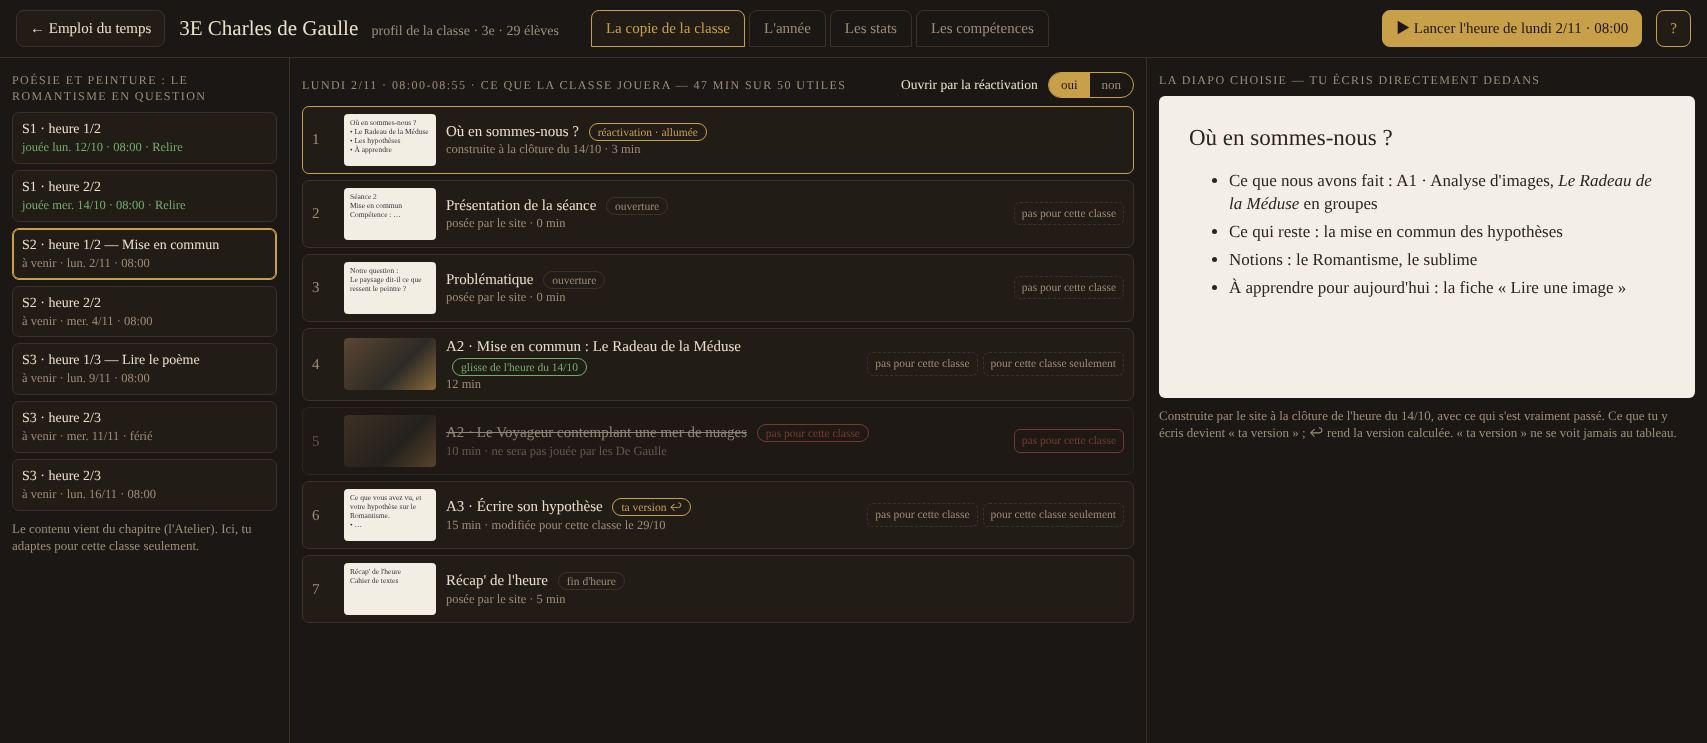
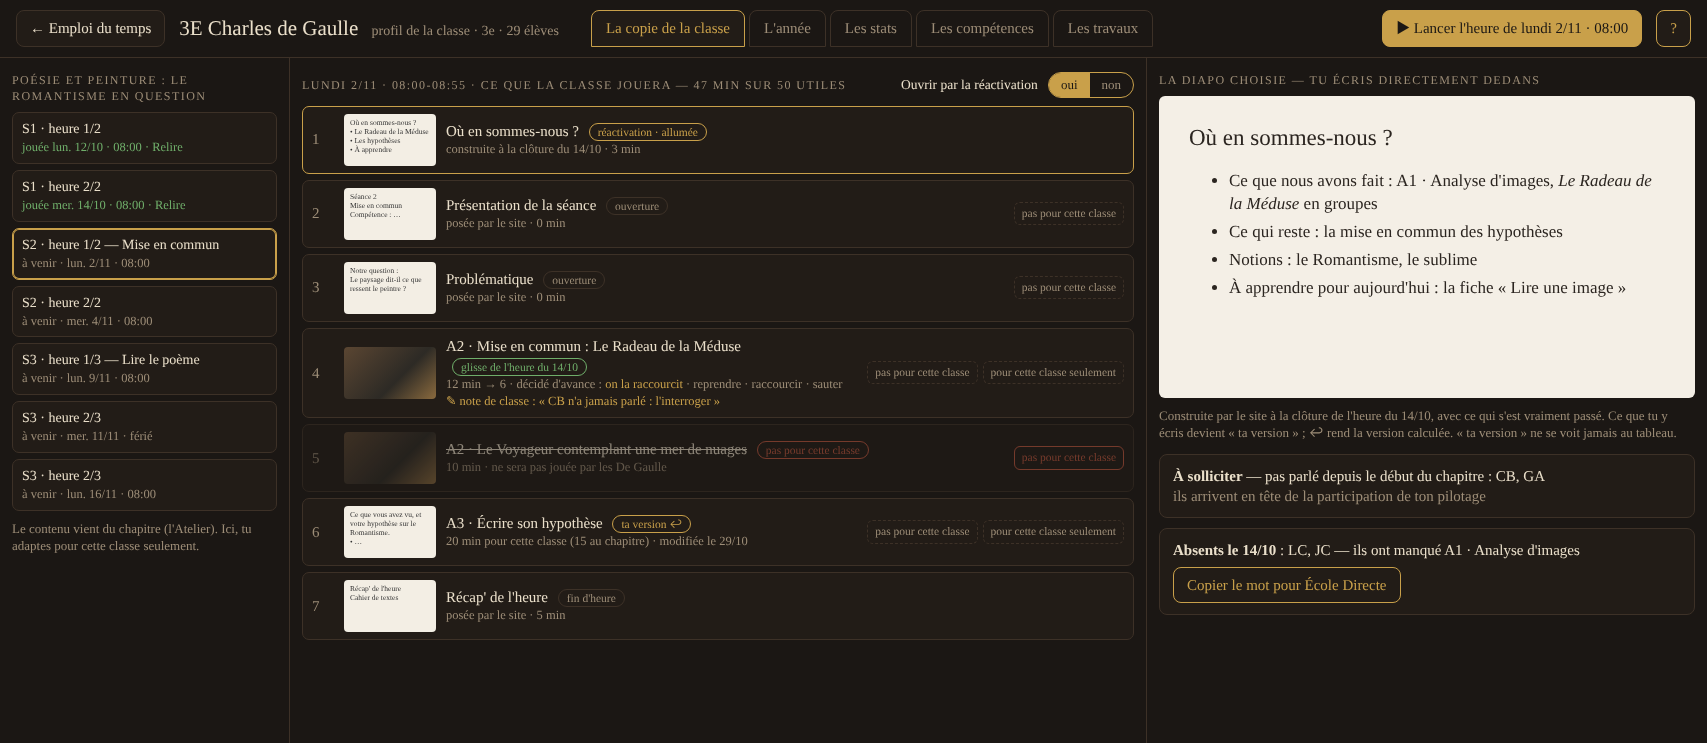
C13 tour 346 : les applis mesurées ; captures du profil enrichies (971-977, Les travaux)
Claude-Session: https://claude.ai/code/session_01FmzsMHBMC1WuguNe8MTJi3

diff --git a/MANDATS/PROFIL-CLASSE/captures-29-10/profil-classe.html b/MANDATS/PROFIL-CLASSE/captures-29-10/profil-classe.html
@@ -44,7 +44,7 @@ table{border-collapse:collapse;width:100%;font-size:14px}td,th{border-bottom:1px
 <div class="haut">
   <button class="btn">← Emploi du temps</button>
   <h1>3E Charles de Gaulle <small>profil de la classe · 3e · 29 élèves</small></h1>
-  <div class="ong" id="ong"><span data-v="1">La copie de la classe</span><span data-v="3">L'année</span><span data-v="4">Les stats</span><span data-v="5">Les compétences</span></div>
+  <div class="ong" id="ong"><span data-v="1">La copie de la classe</span><span data-v="3">L'année</span><span data-v="4">Les stats</span><span data-v="5">Les compétences</span><span data-v="6">Les travaux</span></div>
   <div class="esp"></div>
   <button class="btn plein">▶ Lancer l'heure de lundi 2/11 · 08:00</button><button class="btn or">?</button>
 </div>
@@ -68,9 +68,9 @@ table{border-collapse:collapse;width:100%;font-size:14px}td,th{border-bottom:1px
     <div class="dia sel" id="dreact"><span class="n">1</span><div class="vg">Où en sommes-nous ?<br>• Le Radeau de la Méduse<br>• Les hypothèses<br>• À apprendre</div><div class="tx"><b>Où en sommes-nous ?</b> <span class="tag or" id="treact">réactivation · allumée</span><i>construite à la clôture du 14/10 · 3 min</i></div></div>
     <div class="dia"><span class="n">2</span><div class="vg">Séance 2<br>Mise en commun<br>Compétence : …</div><div class="tx"><b>Présentation de la séance</b> <span class="tag">ouverture</span><i>posée par le site · 0 min</i></div><div class="badges"><span>pas pour cette classe</span></div></div>
     <div class="dia"><span class="n">3</span><div class="vg">Notre question :<br>Le paysage dit-il ce que ressent le peintre ?</div><div class="tx"><b>Problématique</b> <span class="tag">ouverture</span><i>posée par le site · 0 min</i></div><div class="badges"><span>pas pour cette classe</span></div></div>
-    <div class="dia"><span class="n">4</span><div class="vg img"></div><div class="tx"><b>A2 · Mise en commun : Le Radeau de la Méduse</b> <span class="tag vert">glisse de l'heure du 14/10</span><i>12 min</i></div><div class="badges"><span>pas pour cette classe</span><span>pour cette classe seulement</span></div></div>
+    <div class="dia"><span class="n">4</span><div class="vg img"></div><div class="tx"><b>A2 · Mise en commun : Le Radeau de la Méduse</b> <span class="tag vert">glisse de l'heure du 14/10</span><i>12 min → 6 · décidé d'avance : <b style="color:var(--or);font-weight:normal">on la raccourcit</b> · reprendre · raccourcir · sauter</i><i style="color:var(--or)">✎ note de classe : « CB n'a jamais parlé : l'interroger »</i></div><div class="badges"><span>pas pour cette classe</span><span>pour cette classe seulement</span></div></div>
     <div class="dia pas"><span class="n">5</span><div class="vg img"></div><div class="tx"><b>A2 · Le Voyageur contemplant une mer de nuages</b> <span class="tag rouge">pas pour cette classe</span><i>10 min · ne sera pas jouée par les De Gaulle</i></div><div class="badges"><span class="on">pas pour cette classe</span></div></div>
-    <div class="dia"><span class="n">6</span><div class="vg">Ce que vous avez vu, et votre hypothèse sur le Romantisme.<br>• …</div><div class="tx"><b>A3 · Écrire son hypothèse</b> <span class="tag or">ta version ↩</span><i>15 min · modifiée pour cette classe le 29/10</i></div><div class="badges"><span>pas pour cette classe</span><span>pour cette classe seulement</span></div></div>
+    <div class="dia"><span class="n">6</span><div class="vg">Ce que vous avez vu, et votre hypothèse sur le Romantisme.<br>• …</div><div class="tx"><b>A3 · Écrire son hypothèse</b> <span class="tag or">ta version ↩</span><i>20 min pour cette classe (15 au chapitre) · modifiée le 29/10</i></div><div class="badges"><span>pas pour cette classe</span><span>pour cette classe seulement</span></div></div>
     <div class="dia"><span class="n">7</span><div class="vg">Récap' de l'heure<br>Cahier de textes</div><div class="tx"><b>Récap' de l'heure</b> <span class="tag">fin d'heure</span><i>posée par le site · 5 min</i></div></div>
   </div>
   <div class="col" style="width:560px;border-right:0">
@@ -82,6 +82,8 @@ table{border-collapse:collapse;width:100%;font-size:14px}td,th{border-bottom:1px
       <li>À apprendre pour aujourd'hui : la fiche « Lire une image »</li></ul>
       <div class="voile" id="voile" style="display:none"><span>Grisée : la classe ne la verra pas, elle ne passe jamais au tableau.</span></div></div>
     <div class="note" id="nreact">Construite par le site à la clôture de l'heure du 14/10, avec ce qui s'est vraiment passé. Ce que tu y écris devient « ta version » ; ↩ rend la version calculée. « ta version » ne se voit jamais au tableau.</div>
+    <div class="carte" style="margin-top:12px"><b>À solliciter</b> — pas parlé depuis le début du chapitre : CB, GA<br><span style="color:var(--m)">ils arrivent en tête de la participation de ton pilotage</span></div>
+    <div class="carte"><b>Absents le 14/10</b> : LC, JC — ils ont manqué A1 · Analyse d'images<br><button class="btn or" style="margin-top:6px">Copier le mot pour École Directe</button></div>
   </div>
 </div></div>
 
@@ -142,6 +144,28 @@ table{border-collapse:collapse;width:100%;font-size:14px}td,th{border-bottom:1px
     <tr><td>TB</td><td><span class="pt n3"></span></td><td><span class="pt n4"></span></td><td><span class="pt n3"></span></td><td><span class="pt n2"></span></td><td><span class="pt n3"></span></td></tr>
     <tr><td>La classe</td><td>2,8</td><td>2,6</td><td>2,4</td><td style="color:var(--r)">2,1</td><td>2,8</td></tr></table>
     <div class="note">Un point par copie corrigée : ici la lettre de la Grande Guerre (rédaction, 9/10). Chaque nouvelle copie corrigée ajoute son point. <span class="pt n1"></span>1 <span class="pt n2"></span>2 <span class="pt n3"></span>3 <span class="pt n4"></span>4 — la compétence est nommée par sa phrase d'élève ; l'intitulé officiel est dans l'infobulle.</div>
+  </div>
+</div></div>
+<!-- 6 : les travaux -->
+<div class="vue" id="v6"><div class="corps">
+  <div class="col" style="width:640px">
+    <div class="tit">Le cahier de textes de la classe</div>
+    <table><tr><th>Donné le</th><th>Travail</th><th>Pour le</th><th>École Directe</th></tr>
+    <tr><td>12/10</td><td>Apprendre la fiche « Lire une image »</td><td>14/10</td><td><span class="tag vert">copié</span></td></tr>
+    <tr><td>14/10</td><td>Écrire son hypothèse sur le Romantisme (10 lignes)</td><td>2/11</td><td><span class="tag rouge">pas copié</span></td></tr></table>
+  </div>
+  <div class="col" style="flex:1;border-right:0">
+    <div class="tit">Les travaux dans les applis</div>
+    <table><tr><th>Appli</th><th>Travail</th><th>État</th><th></th></tr>
+    <tr><td>Correction de dictée</td><td>Dictée de brevet blanc</td><td><span class="tag vert">corrigée · remédiation en cours</span></td><td><button class="btn">Ouvrir</button></td></tr>
+    <tr><td>Correction de dictée</td><td>Dictée n° 2 — Baudelaire</td><td><span class="tag or">à corriger</span></td><td><button class="btn">Ouvrir</button></td></tr>
+    <tr><td>Réécriture</td><td>Réécriture de brevet blanc</td><td><span class="tag vert">corrigée</span></td><td><button class="btn">Ouvrir</button></td></tr>
+    <tr><td>Évaluation QCM</td><td>une session</td><td><span class="tag vert">faite</span></td><td><button class="btn">Ouvrir</button></td></tr>
+    <tr><td>Analyse logique</td><td>un travail</td><td><span class="tag">en cours</span></td><td><button class="btn">Ouvrir</button></td></tr>
+    <tr><td>Rédaction</td><td>—</td><td><span class="tag">aucune pour cette classe</span></td><td></td></tr>
+    <tr><td>Dictée universelle</td><td>Marcel Labas, « Paroles »</td><td><span class="tag rouge">classe non indiquée</span></td><td><button class="btn">Rattacher</button></td></tr>
+    <tr><td>Pilotage débat</td><td>La Planète des singes</td><td><span class="tag rouge">rattaché au niveau 3e, pas à une classe</span></td><td><button class="btn">Rattacher</button></td></tr></table>
+    <div class="note">Pas lus ici, parce qu'ils vivent seulement dans le navigateur : la rédaction de brevet blanc et l'étude de texte (Dugain), les ateliers de révision.</div>
   </div>
 </div></div>
 <script>

diff --git a/TRANSCRIPTS/C13/TRANSCRIPT-C13.md b/TRANSCRIPTS/C13/TRANSCRIPT-C13.md
@@ -7247,3 +7247,38 @@ MEMO
 
 29/10/2026 09:16
 MEMO
+
+## Tour 346 — 29/10/2026 09:24 → 09:26
+
+**Paul :** Ok. Sachant qu'il n'y a pas que les dictées et les rédactions. Mesure le reste des apps.
+
+**Mesuré.** Les fichiers du dépôt de production et le hub, en lecture (`manifestes`, la forme des données de chaque appli, le lien de classe de chacune). Captures refaites : 971 à 977 ajoutés, onglet « Les travaux » (`06-travaux.png`).
+
+**Claude :**
+
+À jouer : les tests de la ⑨ (liste de 09:01) · en cours : rien · ouvert : 988 ; 905 à 917 (les questions de la lettre).
+
+979. « Ok » : les sept ajouts sont dans les captures. Dans la copie : la note de classe, la durée pour cette classe, ce qui a glissé décidé d'avance, les élèves à solliciter, les absents et leur mot. Un sixième onglet, « Les travaux » : le cahier de textes de la classe, et les travaux dans les applis.
+
+980. Mesuré, les applis qui écrivent au hub, et leur lien avec une classe. Correction de dictée : par classe (« 3E Charles de Gaulle » dans sa fiche), 6 au hub.
+
+981. Réécriture et Réécriture brevet blanc 4e : par classe, la classe est dans le nom (2 et 2 au hub).
+
+982. Évaluation QCM : par classe, chaque session porte sa classe et son état (8 sessions). Applaudimètre : par classe aussi (2 séances, des 4e). Les deux écrivent déjà un profil par élève, rangé par classe.
+
+983. Analyse logique : par classe, dans le nom du travail (1 au hub). Plan de travail : actif par classe (les 4e et la classe test), un chapitre.
+
+984. Rédaction : le sujet n'a pas de classe ; la classe est dans son suivi (1 sujet, suivi pour la 3_dylan_bob).
+
+985. Ce qui manque. Dictée universelle : sa fiche a une case « classe », mais elle est vide sur celle mesurée (2 au hub). Pilotage débat : rattaché à un niveau, jamais à une classe (3 débats). Le profil ne peut pas les ranger sans ce lien : dans la capture, ils portent « Rattacher ».
+
+986. Hors du hub, dans le navigateur seulement : la rédaction de brevet blanc et l'étude de texte de Dugain (faites pour la 3e De Gaulle), et la console des ateliers de révision. Le profil ne peut pas les lire.
+
+987. Je propose : le profil liste, pour la classe, tout ce que les applis du hub ont pour elle, avec l'état et « Ouvrir » ; la dictée universelle et le débat gagnent une classe (« Rattacher »). Les trois outils du navigateur restent hors du profil.
+
+988. Ce que tu ne commentes pas est acquis.
+
+À tester : la liste de la ⑨ de 09:01 tient.
+
+29/10/2026 09:26
+MEMO
